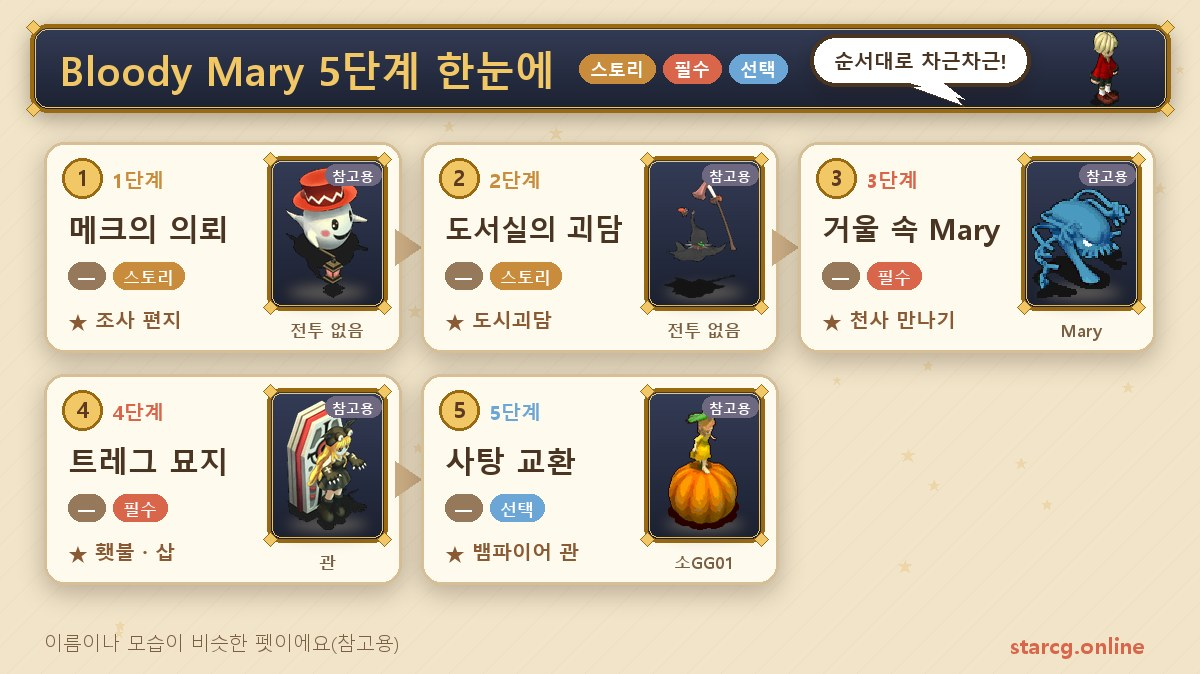
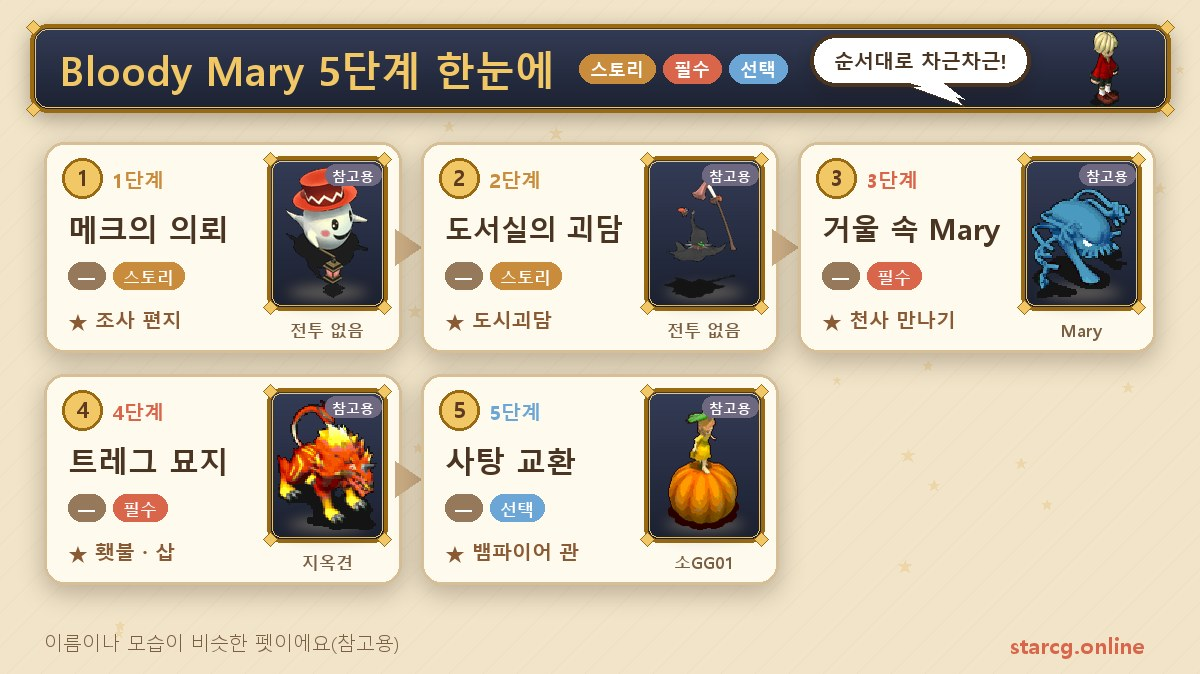
Bloody Mary 攻略補上玩家實測：困境路線圖、夜晚時段、Mary 招式與地獄犬資料
- 夜晚＝現實時間奇數小時（韓文版另註韓國時間是偶數小時）；一輪約 15 分鐘
- 新增三張地圖：亞諾曼城梅克的家位置、困境 A～F 自動導航路線（Mary 在 259.59，S1～S3 相同）、翠格墓園位置
- Mary 會用大地之怒打退場（不用贏）；火把與鏟子可組隊一次拿
- 棺木戰：地獄犬 Lv80、最多 4 隻、邪魔系地 8 水 2、約 6500 血、攻擊／反擊／強力風刃／單體隕石、低機率中毒；出發去墓園前補血；90 級 4 忍 1 傳可掛自動
- 實測內容都標「玩家實測」，和攻略網的資料分開；流程、準備、戰鬥、BOSS 插圖跟著更新

Claude-Session: https://claude.ai/code/session_015zE4E5T7154vbHseJrngyz

Changed region(s): [[0.2158, 0.592, 0.3083, 0.8412]]

diff --git a/src/posts/bloody-mary-event-guide.ko.md b/src/posts/bloody-mary-event-guide.ko.md
@@ -8,9 +8,9 @@ cover: img/bloody-mary-event-guide-cover.jpg
 ---
 **Bloody Mary**는 StarCG(星詠魔力)의 2026년 할로윈 기간 한정 이벤트 퀘스트예요. 이벤트 기간은 **2026년 10월 15일 점검 후부터 11월 15일 23:59까지**(대만 시간, UTC+8)이고, **하루 1번만 진행할 수 있으며 매일 0시에 초기화**돼요. 한 번 클리어할 때마다 **할로윈 사탕(萬聖節糖果)** 1개를 받고, 모아 두면 판부르크 성(法蘭城)에서 탈것 **뱀파이어 관(吸血鬼棺木)**, 펫 **할로윈 초록 호박(萬聖綠南瓜)**, **호박 머리장식(초록)(南瓜頭飾(綠))**으로 바꿀 수 있어요.
 
-퀘스트는 아노만 성(亞諾曼城)에 사는 한 아버지의 의뢰로 시작해요. 딸 제시카(潔西卡)가 사라졌고, 단서는 판부르크 성 도서실에 있는 「Bloody Mary」 도시괴담 책으로 이어져요. **밤**에 거울 앞에서 주문을 세 번 외워 곤경(困境)으로 들어간 뒤, 트레그 묘지(翠格墓園)에서 무덤을 파헤쳐 관 속의 적을 이겨야 해요. 흐름은 길지 않지만 헛걸음하기 쉬운 곳이 두 군데 있어요. **주문은 꼭 밤에 외워야 한다는 것**, 그리고 **Mary와의 전투에 들어가기 전에 가방에 2칸 이상 비워 둬야 한다는 것**이에요. StarCG, 水藍魔力, 初心魔力寶貝 중 무엇을 하든 이런 할로윈 퀘스트는 이 정리대로 준비하면 되고, 이벤트 기간·보상·사탕 개수는 StarCG 공지를 기준으로 해 주세요.
+퀘스트는 아노만 성(亞諾曼城)에 사는 한 아버지의 의뢰로 시작해요. 딸 제시카(潔西卡)가 사라졌고, 단서는 판부르크 성 도서실에 있는 「Bloody Mary」 도시괴담 책으로 이어져요. **밤**에 거울 앞에서 주문을 세 번 외워 곤경(困境)으로 들어간 뒤, 트레그 묘지(翠格墓園)에서 무덤을 파헤쳐 관 속의 적을 이겨야 해요. 흐름은 길지 않아서 유저 실측으로 한 바퀴에 **15분** 정도 걸리지만, 헛걸음하기 쉬운 곳이 두 군데 있어요. **주문은 꼭 밤에 외워야 한다는 것**, 그리고 **Mary와의 전투에 들어가기 전에 가방에 2칸 이상 비워 둬야 한다는 것**이에요. StarCG, 水藍魔力, 初心魔力寶貝 중 무엇을 하든 이런 할로윈 퀘스트는 이 정리대로 준비하면 되고, 이벤트 기간·보상·사탕 개수는 StarCG 공지를 기준으로 해 주세요.
 
-> 이 글은 [StarCG 공략 사이트](https://guide.starcg.net/)의 「Bloody Mary (2026年)」 이벤트 페이지를 바탕으로 저희 방식대로 순서를 다시 짜고 새로 쓴 것으로, 원문을 그대로 옮기지 않았어요. 공략 사이트에 Mary와 관 속 적의 레벨, HP, 스킬이 나와 있지 않아서 모두 「공략 사이트 미기재」로 적었어요. 이벤트 내용은 공지에 따라 바뀔 수 있으니 실제 게임을 기준으로 해 주세요. 아직 인터넷에서 다른 유저의 후기를 찾지 못했고, 믿을 만한 정리가 나오면 추가할게요.
+> 이 글은 [StarCG 공략 사이트](https://guide.starcg.net/)의 「Bloody Mary (2026年)」 이벤트 페이지를 바탕으로 저희 방식대로 순서를 다시 짜고 새로 쓴 것으로, 원문을 그대로 옮기지 않았어요. 「유저 실측」이라고 표시한 부분(밤 시간대 환산, 곤경 루트 지도, Mary의 위치와 스킬, 관 전투의 지옥견 정보와 전투력 참고, 지도 스크린샷)은 실제로 진행해 본 유저의 정리이고, 공략 사이트에는 없는 내용이에요. 실측 결과라서 버전이나 운에 따라 다를 수 있어요. 이벤트 내용은 공지에 따라 바뀔 수 있으니 실제 게임을 기준으로 해 주세요. 지도 스크린샷은 중국어 클라이언트 화면이에요.
 
 ![Bloody Mary 할로윈 이벤트 퀘스트 한눈에 보기: 아노만 성 메크의 의뢰, 판부르크 성 도서실의 도시괴담, 밤에 거울 주문으로 곤경 진입, 트레그 묘지 관 전투, 할로윈 사탕 교환](img/bloody-mary-event-guide-flow.jpg)
 
@@ -34,10 +34,11 @@ Bloody Mary는 재료를 모을 필요가 없어요. 챙겨야 할 건 「시간
 
 ![Bloody Mary 할로윈 이벤트 출발 전 준비물: 밤 시간대, 가방 2칸 이상 비우기, 하루 한 번, 아노만 성과 판부르크 성을 오갈 이동 수단과 보급품](img/bloody-mary-event-guide-prep.jpg)
 
-- **밤 시간대**: 공략 사이트에서 거울 앞에서 주문을 외우는 단계에 【밤】이라고 표시돼 있어요. 앞의 조사 편지나 도서실 단계에는 시간대 표시가 없으니 먼저 끝내 두고, 밤이 되면 메크의 집으로 돌아가세요.
+- **밤 시간대**: 공략 사이트에서 거울 앞에서 주문을 외우는 단계에 【밤】이라고 표시돼 있어요. 유저 실측으로 게임 속 밤은 **현실 시간(대만 시간)의 홀수 시**(1, 3, 5, 7……23시)예요. 한국 시간으로는 짝수 시(0, 2, 4……22시)가 돼요. 앞의 조사 편지나 도서실 단계에는 시간대 표시가 없으니 먼저 끝내 두고, 밤이 되면 메크의 집으로 돌아가세요.
 - **가방 2칸 이상 비우기**: 공략 사이트가 특히 강조하는 부분이에요. Mary 전투에 들어가기 전에, 천사와 대화할 때 가방에 **2칸 이상 빈 공간**이 있는지 확인하세요. 공간이 부족하면 천사 맵에서 떨어뜨린 아이템은 **모두 사라져요**. 천사가 횃불과 삽 두 가지를 주니까 출발 전에 가방을 비워 두는 게 가장 안전해요.
 - **하루 1번**: 매일 0시(대만 시간)에 초기화돼요. 가장 비싼 영구 탈것은 사탕 25개가 필요하고 이벤트 기간이 한 달 정도라서, 노린다면 시작할 때부터 매일 하는 게 좋아요.
-- **이동과 보급**: 아노만 성, 판부르크 성, 트레그 묘지를 오가야 하고, 관 전투의 적 정보는 공략 사이트에 없어요. 보급품을 넉넉히 챙기면 마음이 편해요. 부족하면 이 사이트의 [시세 조회](/ko/market/)로 먼저 시세를 확인해 보세요.
+- **묘지에 가기 전에 꼭 회복하기**: 관 전투는 80레벨 지옥견(地獄犬)이고 HP는 약 6500이에요(유저 실측). Mary에게 전멸당한 뒤 바로 묘지로 가지 말고 HP·MP를 먼저 채우세요. 보급품이 부족하면 이 사이트의 [시세 조회](/ko/market/)로 먼저 시세를 확인해 보세요.
+- **전투력 참고**: 유저 실측으로 **90레벨, 닌자 4명＋성직자 1명** 파티는 자동 전투로 통과할 수 있어요.
 
 ## 1단계: 아노만 성, 메크의 의뢰
 
@@ -45,7 +46,9 @@ Bloody Mary는 재료를 모을 필요가 없어요. 챙겨야 할 건 「시간
 2. **메크**(15, 6)와 대화하면 사라진 딸 **제시카**를 찾아 달라고 해요. 「예」를 고르면 「**조사 편지(調查信)**」를 받아요.
 3. 집 밖으로 나와 **이니(依妮)**(70, 123)와 대화해요. 조사 편지를 건네면 「**조사 편지**」를 다시 받고, 제시카가 **판부르크 성 도서관**에 자주 드나들었다는 걸 알게 돼요.
 
-**주의할 점**: 메크의 집 입구는 그 앞의 「문?」이라서 먼저 조사해야 들어갈 수 있어요. 이 단계는 전투도, 시간대 제한도 없어요.
+**주의할 점**: 메크의 집 입구는 그 앞의 「문?」이라서 먼저 조사해야 들어갈 수 있어요. 이 단계는 전투도, 시간대 제한도 없어요. 메크의 집은 아노만 성 남쪽, 문명 예술 광장 아래에 있어서 성 안 지도를 열면 바로 보여요.
+
+![아노만 성 지도: 메크의 집은 성 남쪽 문명 예술 광장 아래에 있고, Bloody Mary 퀘스트가 여기서 시작돼요(중국어 화면)](img/bloody-mary-event-guide-map-anoman.jpg)
 
 ## 2단계: 판부르크 성 도서실, 도시괴담 받기
 
@@ -61,6 +64,10 @@ Bloody Mary는 재료를 모을 필요가 없어요. 챙겨야 할 건 「시간
 3. 곤경 안에서 **Mary**를 찾아요. 찾아서 말을 걸면 전투가 시작돼요.
 4. 전투가 끝나면 「**？？？**」로 이동하고, 그곳에서 **천사 카스티엘(天使卡斯提爾)**과 대화해요.
 
+**곤경 길 찾기(유저 실측 루트)**: 곤경은 검붉은 미로예요. 아래 지도 A부터 F까지 순서대로, 지도마다 별(☆) 위치를 한 번씩 눌러 **자동 이동**하면 돼요. 지도 F의 별이 Mary가 있는 곳이고, 지도에 적힌 좌표는 259.59예요. 유저 실측으로 **S1, S2, S3 채널 모두 Mary 위치가 같아서** 채널을 바꿔도 같은 지도로 가면 돼요.
+
+![Bloody Mary 곤경 루트 지도: 지도 A부터 F까지 순서대로 별 위치를 눌러 자동 이동, 지도 F의 별이 Mary 위치(259.59), S1·S2·S3 동일](img/bloody-mary-event-guide-maze-route.jpg)
+
 주문은 「Bloody Mary」를 띄어쓰기로 세 번 이어 쓴 거예요. 오타가 나지 않게 그대로 복사해서 붙여 넣으세요.
 
 ```
@@ -69,25 +76,35 @@ Bloody Mary Bloody Mary Bloody Mary
 
 **주의할 점**:
 
-- **Mary를 이기지 않아도 돼요.** 공략 사이트에는 「전투가 끝나면」 이동한다고 적혀 있어서, 지더라도 퀘스트는 계속 진행돼요. 이 전투에서 무리할 필요는 없어요.
+- **Mary를 이기지 않아도 돼요.** 공략 사이트에는 「전투가 끝나면」 이동한다고 적혀 있어요. 유저 실측으로 Mary는 **대지의 분노(大地之怒)**로 파티를 전멸시키는데, 이렇게 져도 전투가 끝난 것으로 처리돼 천사에게 이동해요. 이 전투에서 무리할 필요는 없어요.
 - **이 전투에 들어가기 전에 가방에 2칸 이상 비어 있는지 확인하세요.** 천사 맵으로 이동한 뒤 공간이 부족하면 떨어뜨린 아이템이 그대로 사라지고, 천사 맵 안에서 생기는 일이라 되돌리기 어려워요.
 
-**보스 정보**: Mary의 레벨, HP, 스킬은 공략 사이트 미기재예요.
+**보스 정보**: Mary의 레벨과 HP는 공략 사이트 미기재예요. 스킬은 유저 실측으로 **대지의 분노**(파티 전멸)가 있어요.
 
-![Bloody Mary 할로윈 이벤트: 밤에 거울 앞에서 주문을 세 번 외우자 곤경에서 Mary와 마주쳐 파티원이 울음을 터뜨린 장면, 공략 사이트는 이 전투를 이기지 않아도 된다고 안내](img/bloody-mary-event-guide-scene.jpg)
+![Bloody Mary 할로윈 이벤트: 밤에 거울 앞에서 주문을 세 번 외우자 곤경에서 Mary와 마주쳐 대지의 분노에 쓰러진 파티원이 우는 장면, 이 전투는 이기지 않아도 돼요](img/bloody-mary-event-guide-scene.jpg)
 
 ## 4단계: 천사 카스티엘과 트레그 묘지의 관
 
-1. **천사 카스티엘**과 대화해 【도시괴담-Bloody Mary】를 건네면 【**오래 타는 횃불(長期燃燒的火把)**】과 【**삽(鏟子)**】을 받고 **아노만 성**(133, 113)으로 이동해요.
+1. **천사 카스티엘**과 대화해 【도시괴담-Bloody Mary】를 건네면 【**오래 타는 횃불(長期燃燒的火把)**】과 【**삽(鏟子)**】을 받고 **아노만 성**(133, 113)으로 이동해요. 유저 실측으로 이 단계는 **파티로 한 번에 받을 수 있어요.**
 2. **아노만 성 남문**으로 나가 남쪽으로 가서 **트레그 묘지**(227, 475)로 들어가요.
+
+![아노만 성 남쪽 필드 지도: 남문에서 출발해 남쪽으로 가면 별 표시가 트레그 묘지(227, 475)예요(중국어 화면)](img/bloody-mary-event-guide-map-graveyard.jpg)
+
 3. **무덤?**(21, 7)과 대화해 무덤을 파헤치면 화면이 바뀌고, **관**과 대화하면 전투가 시작돼요.
 4. 이기면 맵이 바뀌고, **천사 카스티엘**과 대화해 보상을 받아요.
 
 **주의할 점**: Mary 전투와 달리 **관 전투는 이겨야** 맵이 바뀌고 보상을 받을 수 있어요. 천사가 준 횃불과 삽이 이 단계에서 쓰는 아이템이니 무덤을 파기 전에 버리지 마세요.
 
-**보스 정보**: 관 속 적의 이름, 레벨, HP, 스킬은 공략 사이트 미기재예요. 파티 레벨이 높지 않다면 파티를 꾸리고 보급품을 넉넉히 챙겨서 들어가는 걸 추천해요.
+**보스 정보**(공략 사이트 미기재, 아래는 유저 실측):
 
-![Bloody Mary 할로윈 이벤트 보스 도감: 곤경의 Mary(이기지 않아도 됨)와 트레그 묘지의 관 전투(이겨야 함), 레벨과 HP는 공략 사이트 미기재](img/bloody-mary-event-guide-boss.jpg)
+- 적: **지옥견(地獄犬)**, 80레벨, 지금까지 최대 **4마리**까지 나왔어요.
+- 속성: **사마계(邪魔系)**, 지 8 수 2.
+- HP: 약 **6500**.
+- 스킬: 공격, 반격, 강력한 바람의 칼날(強力風刃), 단일 운석. **낮은 확률로 중독**돼요.
+
+**공략법**: 지옥견은 지 8 수 2라서 속성 상성(바람이 땅에 강함)상 바람 속성 공격이 유리해요. 반격과 단일 운석을 쓰니 회복이 끊기지 않게 하세요. 유저 실측으로 90레벨 닌자 4명＋성직자 1명이면 자동 전투로 통과할 수 있어요. 가장 중요한 말이라 세 번 강조해요. **묘지에 가기 전에 꼭 회복하세요!**
+
+![Bloody Mary 할로윈 이벤트 보스 도감: 곤경의 Mary는 대지의 분노 사용(이기지 않아도 됨), 트레그 묘지의 지옥견 Lv80·HP 약 6500·사마계 지8수2(이겨야 함)](img/bloody-mary-event-guide-boss.jpg)
 
 ## 5단계: 보상 받기와 할로윈 사탕 교환
 
@@ -117,9 +134,13 @@ Bloody Mary Bloody Mary Bloody Mary
 
 **하루에 몇 번 할 수 있나요?** 하루 1번이고, 매일 0시(대만 시간)에 초기화돼요. 한 번 클리어할 때마다 할로윈 사탕 1개를 받아요.
 
-**거울 앞에서 주문을 외워도 반응이 없어요.** 공략 사이트에서 이 단계는 **밤**에 하도록 표시돼 있고, 주문은 「Bloody Mary」를 세 번이에요. 이 글의 주문을 그대로 복사해 붙여 넣으면 오타를 막을 수 있어요.
+**거울 앞에서 주문을 외워도 반응이 없어요.** 공략 사이트에서 이 단계는 **밤**에 하도록 표시돼 있어요. 유저 실측으로 밤은 대만 시간 홀수 시(한국 시간 짝수 시)예요. 주문은 「Bloody Mary」를 세 번이고, 이 글의 주문을 그대로 복사해 붙여 넣으면 오타를 막을 수 있어요.
 
-**Mary는 꼭 이겨야 하나요?** 아니요. 공략 사이트에 Mary를 이기지 않아도 된다고 적혀 있고, 전투가 끝나면 천사가 있는 맵으로 이동해요. 꼭 이겨야 하는 건 트레그 묘지의 관 전투예요.
+**곤경에서 Mary를 못 찾겠어요.** 이 글의 지도 A～F를 순서대로 보고 각 지도의 별 위치를 눌러 자동 이동하세요. 지도 F의 별이 Mary예요. 유저 실측으로 S1, S2, S3 위치가 모두 같아요.
+
+**관 전투는 얼마나 강해야 하나요?** 관 속은 80레벨 지옥견이고, 유저 실측으로 HP 약 6500, 최대 4마리예요. 90레벨 닌자 4명＋성직자 1명이면 자동 전투로 통과할 수 있어요. 들어가기 전에 꼭 회복하세요.
+
+**Mary는 꼭 이겨야 하나요?** 아니요. 공략 사이트에 Mary를 이기지 않아도 된다고 적혀 있어요. 유저 실측으로 Mary가 대지의 분노로 파티를 쓰러뜨리는데, 그렇게 전투가 끝나면 천사가 있는 맵으로 이동해요. 꼭 이겨야 하는 건 트레그 묘지의 관 전투예요.
 
 **천사와 대화한 뒤 아이템이 사라졌어요.** Mary 전투에 들어가기 전에 가방을 2칸 이상 비워 둬야 해요. 천사 맵에서 공간이 부족하면 떨어뜨린 아이템이 바로 사라져요. 다음에는 출발 전에 가방을 정리하세요.
 
@@ -127,6 +148,6 @@ Bloody Mary Bloody Mary Bloody Mary
 
 ## 정리: 밤, 빈칸, 하루 한 번
 
-Bloody Mary의 흐름 자체는 복잡하지 않아요. 의뢰 받기, 도서실 가기, 거울 주문, 관 전투까지 한 바퀴 돌면 아노만 성과 판부르크 성을 한 번 오가는 정도예요. 꼭 기억할 건 세 가지예요. **주문은 밤에 외우기**, **Mary 전투 전에 가방 2칸 이상 비우기**, **매일 한 번 잊지 말기**. 영구 뱀파이어 관은 사탕 25개가 필요하고 이벤트는 한 달 정도라서, 일찍 시작할수록 여유로워요.
+Bloody Mary의 흐름 자체는 복잡하지 않아요. 의뢰 받기, 도서실 가기, 거울 주문, 관 전투까지 한 바퀴 돌면 아노만 성과 판부르크 성을 한 번 오가는 정도예요. 꼭 기억할 건 세 가지예요. **주문은 밤에 외우기**, **Mary 전투 전에 가방 2칸 이상 비우기**, **매일 한 번 잊지 말기**, 그리고 묘지에서 지옥견과 싸우기 전에 회복하기. 영구 뱀파이어 관은 사탕 25개가 필요하고 이벤트는 한 달 정도라서, 일찍 시작할수록 여유로워요.
 
 원문은 [StarCG 공략 사이트](https://guide.starcg.net/)의 이벤트 퀘스트 페이지에서 볼 수 있어요. 이 사이트의 [펫 성장 시뮬레이터](/ko/pets/)로 할로윈 초록 호박을 계산해 보고, [시세 조회](/ko/market/)로 보급품도 준비해 보세요.
